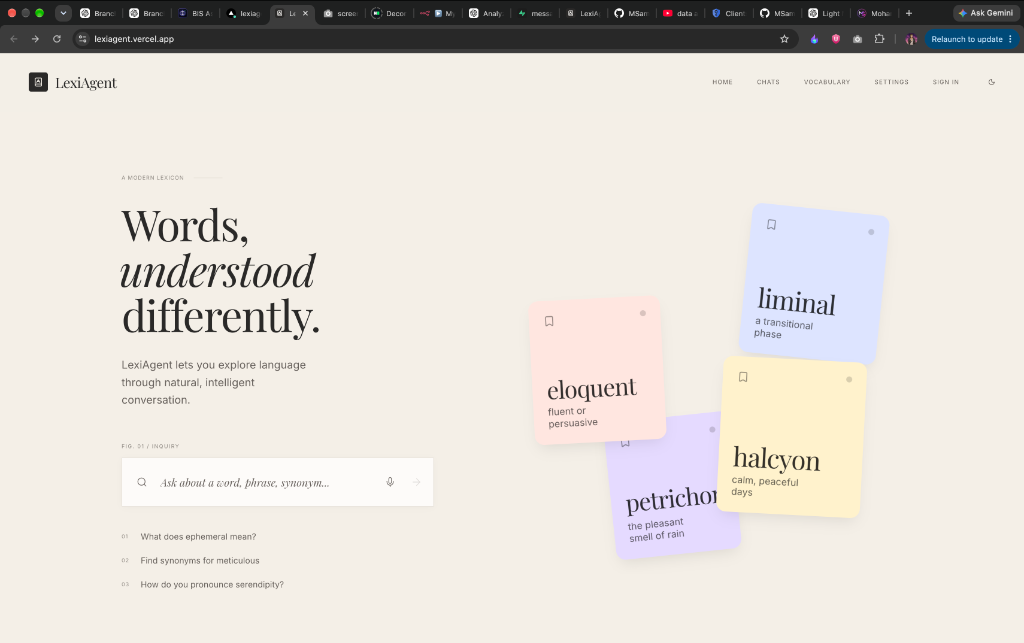
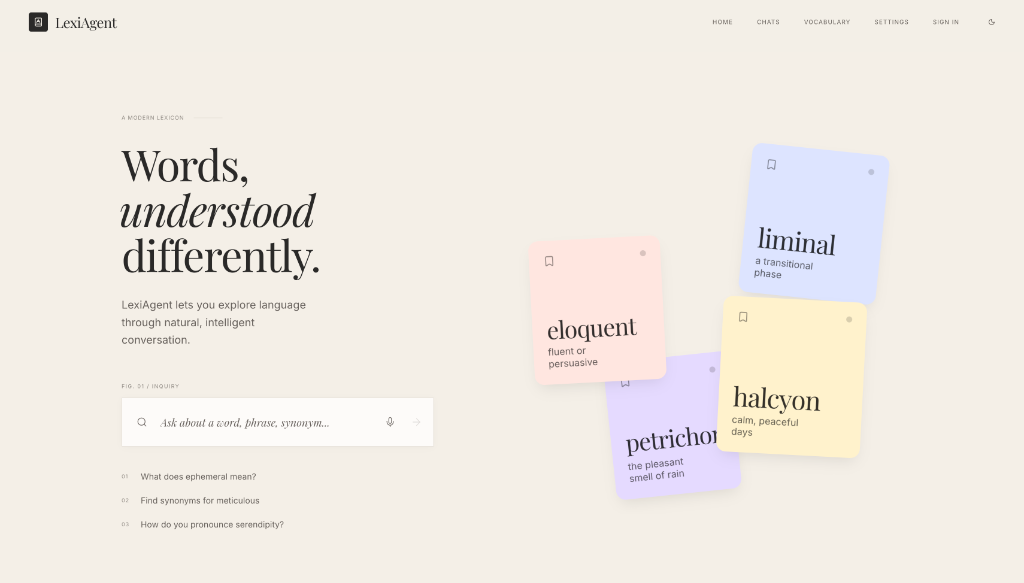
docs: final premium README — visual-first, concise, cropped screenshots, proper badges

diff --git a/README.md b/README.md
@@ -4,7 +4,16 @@
 </p>
 
 <p align="center">
-LexiAgent is an agentic AI dictionary and thesaurus that combines Merriam-Webster's dictionary data with Groq-powered conversational AI to turn vocabulary lookup into an interactive exploration.
+An agentic AI dictionary that turns vocabulary lookup into a conversational learning experience.
+</p>
+
+<p align="center">
+  <img src="https://img.shields.io/badge/React_19-20232A?style=flat&logo=react&logoColor=61DAFB" alt="React" />
+  <img src="https://img.shields.io/badge/TypeScript-3178C6?style=flat&logo=typescript&logoColor=white" alt="TypeScript" />
+  <img src="https://img.shields.io/badge/Supabase-3FCF8E?style=flat&logo=supabase&logoColor=white" alt="Supabase" />
+  <img src="https://img.shields.io/badge/Groq-F55036?style=flat" alt="Groq" />
+  <img src="https://img.shields.io/badge/Vercel-000000?style=flat&logo=vercel&logoColor=white" alt="Vercel" />
+  <img src="https://img.shields.io/badge/License-MIT-yellow?style=flat" alt="MIT License" />
 </p>
 
 <p align="center">
@@ -13,41 +22,32 @@ LexiAgent is an agentic AI dictionary and thesaurus that combines Merriam-Webste
 
 <br/>
 
----
-
-## ✦ Preview
-
-![LexiAgent Home](docs/screenshots/home.png)
+<p align="center">
+  <img src="docs/screenshots/home.png" alt="LexiAgent" width="100%" />
+</p>
 
 <table>
   <tr>
-    <td><img src="docs/screenshots/dictionary-result.png" alt="Dictionary Result" /></td>
+    <td><img src="docs/screenshots/dictionary-result.png" alt="Dictionary" /></td>
     <td><img src="docs/screenshots/vocabulary.png" alt="Vocabulary" /></td>
-  </tr>
-  <tr>
-    <td align="center"><em>Dictionary result with definitions, pronunciation, and follow-up input</em></td>
-    <td align="center"><em>Personal vocabulary — recent words and saved collection</em></td>
   </tr>
 </table>
 
-<p align="center">
-  <img src="docs/screenshots/auth.png" alt="Authentication" width="360" />
-</p>
-<p align="center"><em>Editorial sign-in with Google, GitHub, and email</em></p>
-
 ---
 
-## ✦ What makes LexiAgent different
+## ✦ Features
 
-🤖 **Agentic lookup** — Groq autonomously decides when dictionary data is needed and invokes the tool.
+🤖 **Agentic lookup** — Groq autonomously decides when to fetch dictionary data and invokes the tool.
 
-📖 **Rich word intelligence** — Definitions, examples, phonetics, audio pronunciation, synonyms, and antonyms from Merriam-Webster.
+📖 **Rich word intelligence** — Definitions, examples, pronunciation audio, synonyms, and antonyms from Merriam-Webster.
 
-💬 **Conversational exploration** — Ask follow-up questions instead of isolated searches. Continue the dialogue.
+💬 **Conversational** — Ask follow-up questions. Continue the dialogue instead of isolated searches.
 
-🧠 **Personal vocabulary** — Save words, track lookup history, and build your lexicon across sessions.
+🧠 **Personal vocabulary** — Save words, track lookup history, build your lexicon across sessions.
 
 🎤 **Voice input** — Speak your query using native Web Speech API.
+
+🌗 **Light & dark** — Carefully designed editorial themes with warm ivory palette and tactile motion.
 
 ---
 
@@ -65,7 +65,7 @@ flowchart LR
     C --> B
 ```
 
-The user sends a message. The Edge Function routes it to Groq, which can autonomously invoke a dictionary tool to fetch real definitions and thesaurus data from Merriam-Webster. The final response — along with structured word data — is persisted and returned to the frontend.
+User sends a message. The Edge Function routes it to Groq, which can autonomously invoke a dictionary tool to fetch definitions and thesaurus data from Merriam-Webster. Structured word data and the conversational response are persisted and returned to the frontend. All API keys stay server-side.
 
 ---
 
@@ -73,18 +73,18 @@ The user sends a message. The Edge Function routes it to Groq, which can autonom
 
 | Layer | Technology |
 |---|---|
-| Frontend | React 19 · TypeScript · Vite |
-| Styling | Tailwind CSS 4 · Framer Motion |
+| Frontend | React 19 · TypeScript · Vite · Tailwind CSS 4 |
+| Animation | Framer Motion |
 | State | Zustand |
 | Backend | Supabase Edge Functions (Deno) |
 | AI | Groq |
 | Dictionary | Merriam-Webster Dictionary & Thesaurus APIs |
-| Database & Auth | Supabase (PostgreSQL · RLS · OAuth) |
+| Auth & DB | Supabase (PostgreSQL · Row Level Security · OAuth) |
 | Deployment | Vercel + Supabase |
 
 ---
 
-## ✦ Run locally
+## ✦ Quick Start
 
 ```bash
 git clone https://github.com/MSameer7-tech/Lexi-Agent.git
@@ -99,44 +99,21 @@ VITE_SUPABASE_URL=your_supabase_url
 VITE_SUPABASE_PUBLISHABLE_KEY=your_supabase_key
 ```
 
-> Groq and Merriam-Webster API keys belong in [Supabase Edge Function secrets](https://supabase.com/docs/guides/functions/secrets), not in frontend environment variables.
-
 ```bash
 npm run dev
 ```
 
----
-
-## ✦ Project
-
-```
-src/
-├── components/       # WordResult, ActivityTimeline, HistoryDrawer
-├── pages/            # Home, Auth, Vocabulary, Settings
-├── store/            # Zustand (history, theme)
-├── services/         # Edge Function API client
-└── lib/              # Supabase client, parser, motion
-
-supabase/
-├── functions/
-│   └── lexi-chat/    # Agent orchestration, Groq, MW tools
-└── migrations/       # PostgreSQL schema, RLS, RPCs
-```
+> Backend secrets (Groq, Merriam-Webster) are configured in [Supabase Edge Function secrets](https://supabase.com/docs/guides/functions/secrets) and are never exposed to the browser.
 
 ---
 
-## ✦ Live
-
-**[lexiagent.vercel.app](https://lexiagent.vercel.app)** · **[GitHub](https://github.com/MSameer7-tech/Lexi-Agent)**
-
----
-
-## ✦ Attribution
-
-Dictionary and thesaurus data provided by the [Merriam-Webster API](https://dictionaryapi.com). LexiAgent follows the required attribution and branding guidelines.
+<p align="center">
+  <strong><a href="https://lexiagent.vercel.app">lexiagent.vercel.app</a></strong>
+</p>
 
 ---
 
-## ✦ License
-
-MIT
+<p align="center">
+Dictionary and thesaurus data provided by the <a href="https://dictionaryapi.com">Merriam-Webster API</a>.<br/>
+Licensed under MIT.
+</p>
